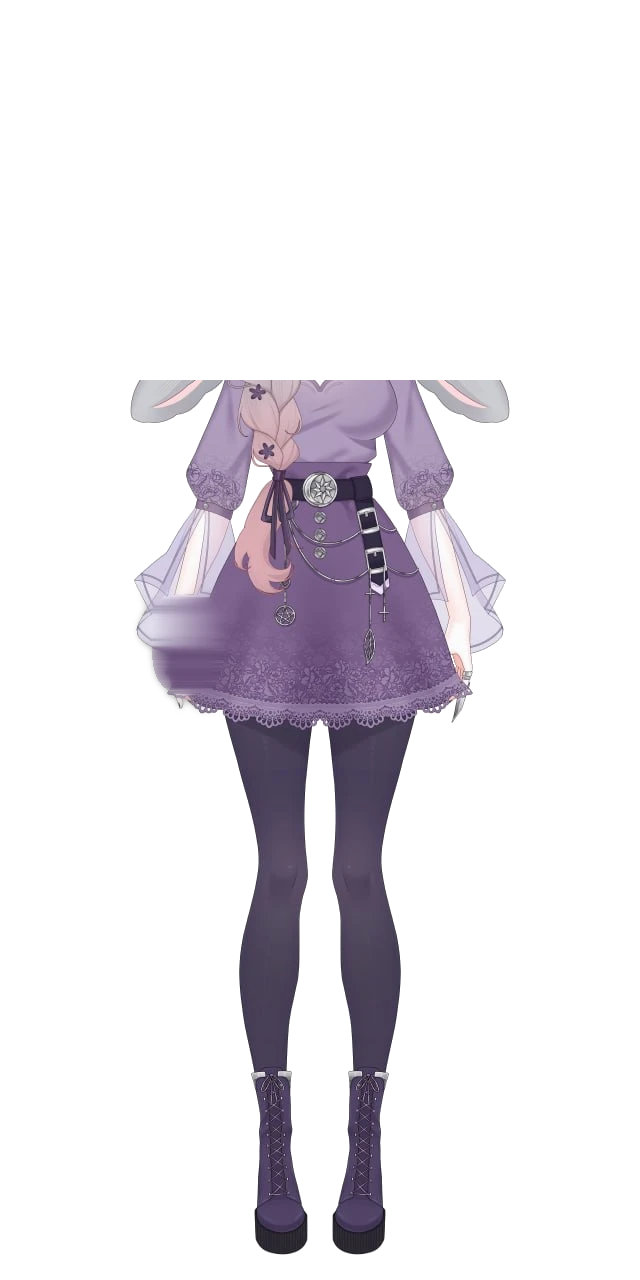
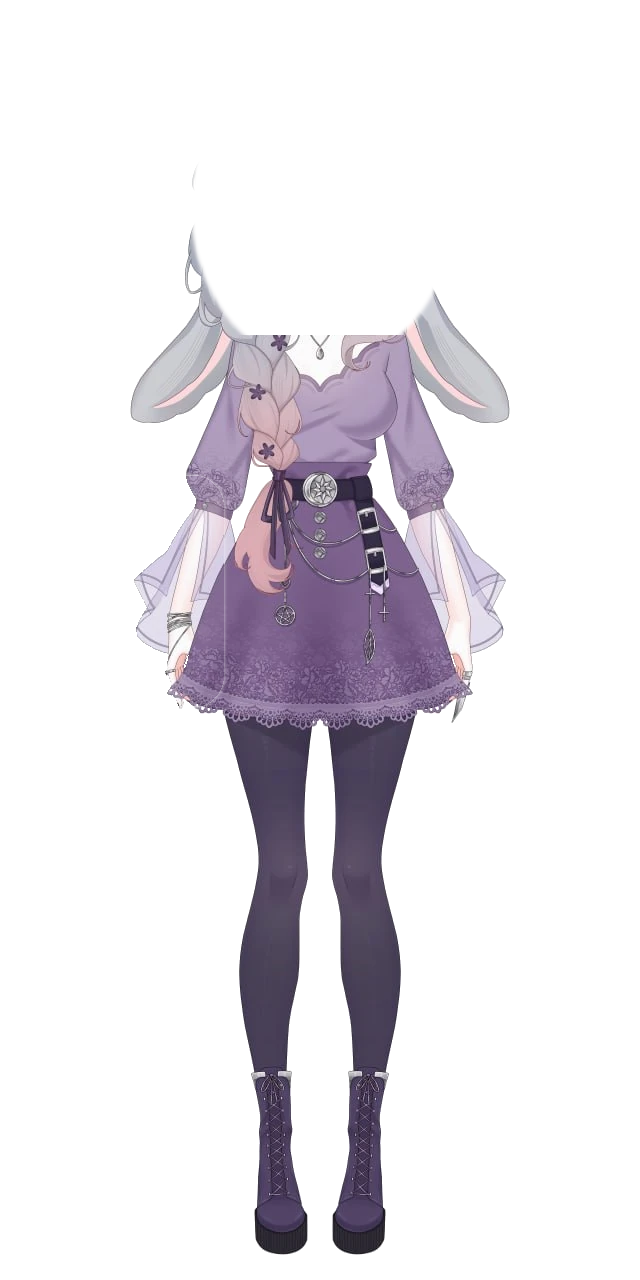
Обновление сайта Timora

Changed region(s): [[0.2188, 0.375, 0.3438, 0.5625], [0.5, 0.2188, 0.7812, 0.3125], [0.2188, 0.1875, 0.4688, 0.3125]]

diff --git a/assets/css/style.css b/assets/css/style.css
@@ -139,16 +139,16 @@ ul { margin: 0; padding: 0; list-style: none; }
 .model {
   position: relative; width: 100%; max-width: 324px;
   aspect-ratio: 1 / 2; margin: 0 auto;
-  animation: modelBob 6.8s ease-in-out infinite;
+  animation: modelBob 7.5s ease-in-out infinite;
 }
 .model__layer { position: absolute; inset: 0; width: 100%; height: 100%; }
 .model__layer--head {
-  transform-origin: var(--head-pivot, 50% 26%);
-  animation: headTurn 9s ease-in-out infinite;
+  transform-origin: var(--head-pivot, 50% 27%);
+  animation: headTurn 9.5s ease-in-out infinite;
 }
 .model__layer--hand {
-  transform-origin: var(--hand-pivot, 29% 50%);
-  animation: handWave 2.8s ease-in-out infinite;
+  transform-origin: var(--hand-pivot, 31% 38%);
+  animation: handWave 4.4s ease-in-out infinite;
 }
 .model__glow {
   position: absolute; inset: 10% 2% 4%; z-index: -1; border-radius: 50%;
@@ -161,22 +161,23 @@ ul { margin: 0; padding: 0; list-style: none; }
 }
 @keyframes modelBob {
   0%, 100% { transform: translateY(0); }
-  50% { transform: translateY(-5px); }
+  50% { transform: translateY(-3px); }
 }
 @keyframes headTurn {
   0%, 7% { transform: rotate(0deg); }
-  18%, 28% { transform: rotate(var(--head-angle, 6deg)); }
+  18%, 28% { transform: rotate(var(--head-angle, 7deg)); }
   40% { transform: rotate(0deg); }
-  52%, 62% { transform: rotate(calc(var(--head-angle, 6deg) * -1)); }
+  52%, 62% { transform: rotate(calc(var(--head-angle, 7deg) * -1)); }
   76%, 100% { transform: rotate(0deg); }
 }
+/* рука плавно качается, как при приветствии */
 @keyframes handWave {
   0%, 100% { transform: rotate(0deg); }
-  12% { transform: translate(-4px, -9px) rotate(var(--hand-angle, 22deg)); }
-  32% { transform: translate(2px, -4px) rotate(calc(var(--hand-angle, 22deg) * -0.7)); }
-  52% { transform: translate(-4px, -9px) rotate(var(--hand-angle, 22deg)); }
-  72% { transform: translate(2px, -4px) rotate(calc(var(--hand-angle, 22deg) * -0.7)); }
-  88% { transform: rotate(0deg); }
+  14% { transform: rotate(var(--hand-angle, 12deg)); }
+  34% { transform: rotate(calc(var(--hand-angle, 12deg) * -0.7)); }
+  54% { transform: rotate(var(--hand-angle, 12deg)); }
+  74% { transform: rotate(calc(var(--hand-angle, 12deg) * -0.7)); }
+  90% { transform: rotate(0deg); }
 }
 .hero__role {
   font-size: 13px; letter-spacing: 0.22em; text-transform: uppercase;

diff --git a/assets/js/config.js b/assets/js/config.js
@@ -73,10 +73,10 @@ window.SITE = {
     head: "assets/img/model-head.webp",
     hand: "assets/img/model-hand.webp",
     full: "assets/img/model-full.webp",
-    headPivot: [50.3, 26.4],   // шея
-    handPivot: [29.2, 50.0],   // центр кисти
+    headPivot: [50.3, 26.6],   // шея
+    handPivot: [30.6, 38.4],   // плечо руки, которая машет
     headAngle: 7,              // градус поворота головы
-    handAngle: 22,             // градус взмаха кисти
+    handAngle: 12,             // градус взмаха руки
     alt: { ru: "Модель Timora в полный рост", en: "Timora's full-body model" }
   },
 
